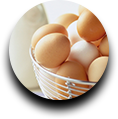
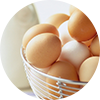
art of cakes

diff --git a/styles.css b/styles.css
@@ -401,7 +401,7 @@ main {
     display: flex;
     flex-wrap: wrap;
     justify-content: space-between;
-    width: 61%;
+    width: 53%;
     gap: 20px 20px;
     margin-top: 110px;
     position: relative;
@@ -410,8 +410,8 @@ main {
 
 
 .img-card {
-    width: 18.4vw;
-    height: 15.6vw;
+    width: 48%;
+    height: 48%;
     position: relative;
 }
 
@@ -901,7 +901,7 @@ main {
 .sandwich .ingridient img {
     width: 100px;
     height: 100px;
-    /* filter: drop-shadow(0px 10px 5px #000000); */
+    filter: drop-shadow(0px 10px 5px #00000020);
 }
 
 .mini-heading {
@@ -1008,6 +1008,23 @@ footer .menu {
 
 
 /*================= MEDIA QUERIES =================*/
+
+@media screen and (min-width: 2560px) {
+    .flex-tc {
+        padding: 0 380px;
+    }
+
+    .gallery {
+        width: 33%;
+    }
+
+    .tasty-pancakes {
+        padding: 140px 662px 108px 662px;
+    }
+}
+
+
+
 @media screen and (min-width: 1600px) {
     .header-inner, 
     .header-menu-wrap {
@@ -1016,6 +1033,10 @@ footer .menu {
 
     .sandwich .info {
         justify-content: center;
+    }
+
+    .dishes-wrap {
+        margin-top: 35px;
     }
 }
 
@@ -1237,6 +1258,20 @@ footer .menu {
 }
 
 @media screen and (max-width: 768px) {
+
+    .flex-tc {
+        padding: 0 50px;
+    }
+
+    .chef-info-name {
+        gap: 14px;
+        
+    }
+
+    .chef-info-name .w-b {
+        padding: 20px 18px;
+    }
+
     .main-info {
         padding-top: 180px; 
     }
